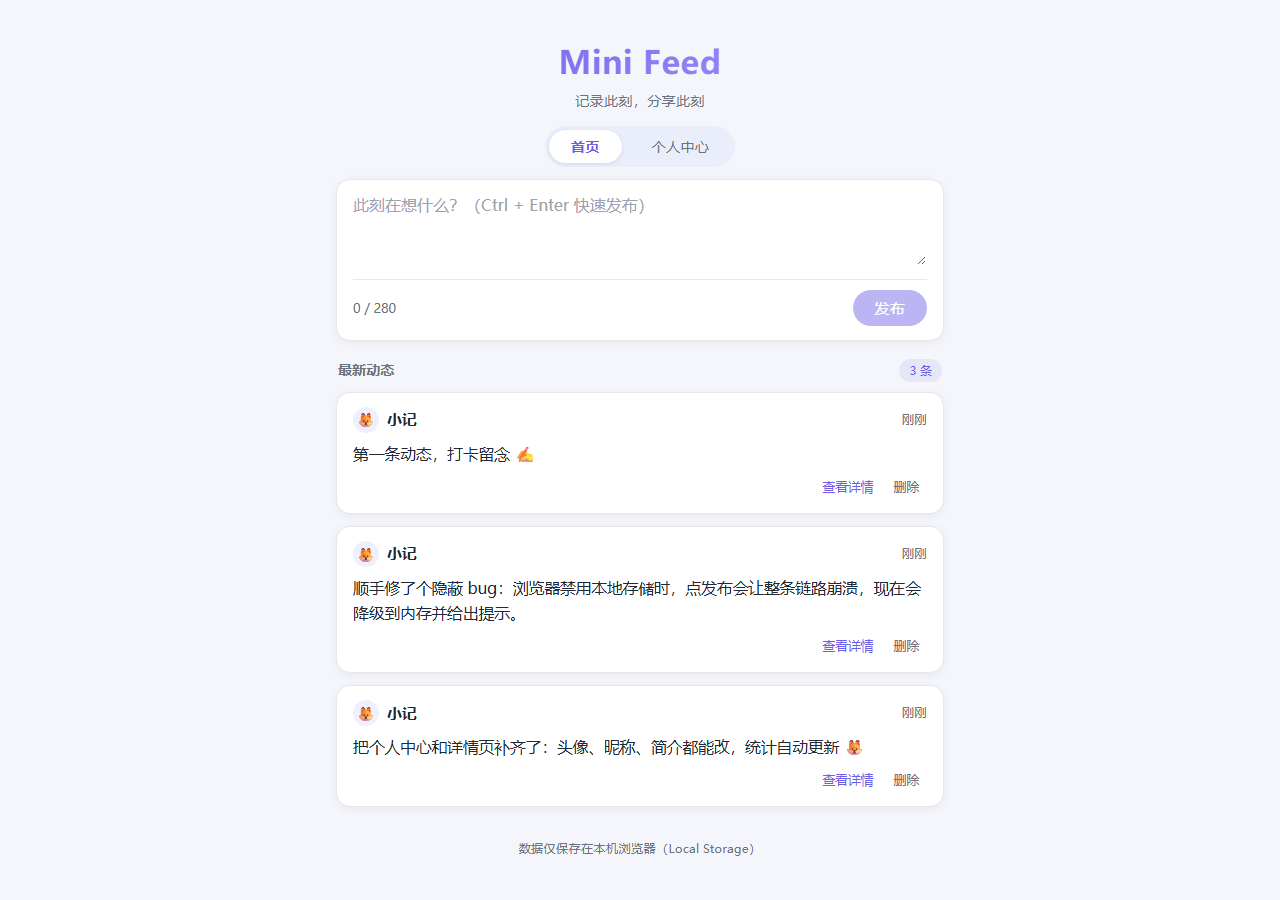
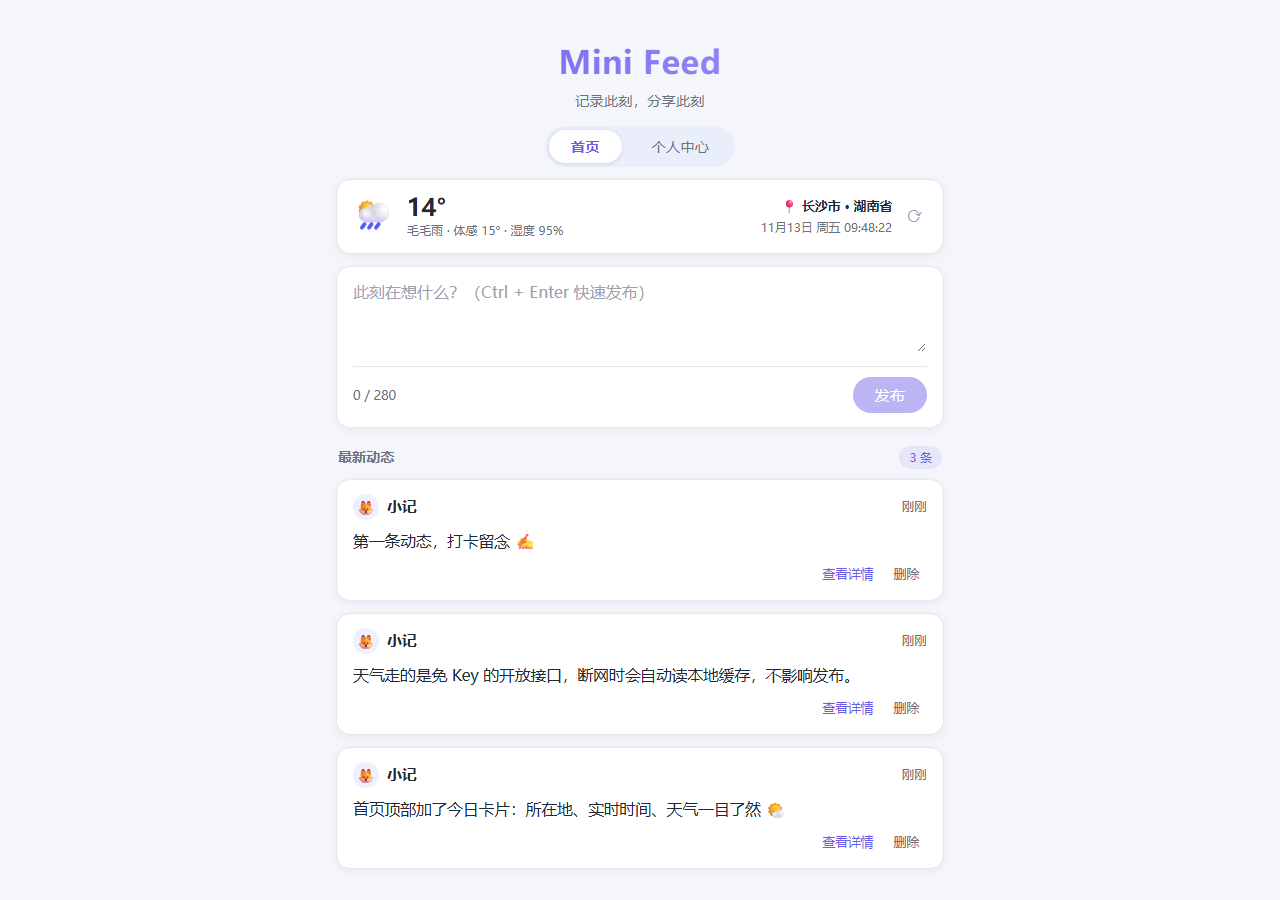
docs: document today card, weather data sources and screenshots

diff --git a/README.md b/README.md
@@ -3,6 +3,7 @@
 一个极简的社交动态（micro-feed）应用：纯 HTML + CSS + JavaScript 实现，零依赖、零构建，数据通过浏览器 **Local Storage** 本地化存储，刷新不丢失。
 
 > 建议通过本地服务器访问（如 `python -m http.server`），部分浏览器直接用 `file://` 打开时会禁用本地存储，详见 [常见问题](#-常见问题)。
+> 首页顶部的天气卡片需要联网获取数据（全部为免 Key 开放接口），断网时自动降级为缓存或占位提示。
 
 ## 📌 项目需求说明
 
@@ -11,12 +12,20 @@
 | 纯 HTML + CSS + JavaScript，不使用任何框架 | ✅ 原生三件套，零依赖 |
 | 发布动态 | ✅ 文本输入 + 发布按钮，支持 Ctrl/Cmd + Enter 快捷键 |
 | 查看动态 | ✅ 时间线倒序展示 + 单条动态详情页（完整正文 / 精确时间 / 字数） |
+| 所在地 / 当前时间 / 天气 | ✅ 首页顶部「今日卡片」：自动 IP 定位 + 实时天气，时间每秒走动 |
 | 本地化数据存储 | ✅ `localStorage` 持久化，关闭浏览器后数据保留 |
 | 删除动态 | ✅ 列表与详情页均可删除（带确认提示） |
 | 个人中心 | ✅ 头像 / 昵称 / 简介编辑、数据统计、我的动态、清空数据 |
 | 最小可用 | ✅ 单页应用，三个文件即可完整运行 |
 
-## ✨ 功能清单（V1.1）
+## ✨ 功能清单（V1.2）
+
+**🌤 今日卡片（首页顶部）**
+- 📍 **所在地**：通过 IP 自动定位，反向地理编码为中文地名（如「长沙市 · 湖南省」），定位结果缓存 12 小时
+- 🕒 **当前时间**：月/日 + 星期 + 时分秒，每秒实时走动
+- 🌡 **天气**：实时温度、天气现象（晴 / 多云 / 雨 / 雪 / 雷阵雨…）、体感温度、湿度，配 WMO 天气代码对应的图标
+- 🔄 **刷新**：右上角一键刷新；天气缓存 20 分钟，过期自动更新
+- 🛟 **容错**：定位主源被限流时自动切换备源；全部接口不可用时读取本地缓存并标注「离线缓存」，完全失败仅显示占位提示，**不影响发布与查看**
 
 **🏠 首页**
 - ✏ **发布**：多行文本输入，280 字上限，实时字数统计，空内容禁止发布，发布后新卡片高亮
@@ -42,6 +51,7 @@
 mini-feed-20261113/
 ├── index.html      # 页面结构（首页 / 个人中心 / 详情 三视图）
 ├── style.css       # 样式（卡片式 UI，浅色主题）
+├── weather.js      # 今日卡片（IP 定位 / 中文地名 / 天气 / 实时时钟）
 ├── app.js          # 逻辑（存储层 / 渲染 / 视图切换 / 业务操作）
 ├── screenshots/    # 运行效果截图
 └── README.md
@@ -86,6 +96,23 @@ A：这是浏览器对 `file://` 协议的本地存储限制导致的（Chrome/E
 V1.1 已修复：存储不可用时会自动降级为内存模式并在页面顶部提示，发布与查看均正常，只是关闭页面后数据不保留。
 如需真正持久化，请用 `python -m http.server 8000` 以 `http://localhost:8000` 访问。
 
+**Q：天气卡片一直显示「天气暂不可用」？**
+A：天气依赖公网接口，需要联网访问。常见原因：断网 / 接口被网络环境拦截 / IP 定位服务临时限流。
+点击卡片右上角 ⟳ 可重试；接口恢复后会自动展示，历史数据会在离线时作为缓存兜底显示。
+
+## 🌐 天气数据来源
+
+天气卡片全部使用**免 Key、支持跨域**的开放接口，无任何后端与密钥配置：
+
+| 用途 | 接口 | 说明 |
+| --- | --- | --- |
+| IP 定位（主） | `ipinfo.io/json` | 返回经纬度，写入 12 小时定位缓存 |
+| IP 定位（备） | `ipwho.is` | 主源限流时自动切换 |
+| 中文地名 | `api.bigdatacloud.net/data/reverse-geocode-client?localityLanguage=zh` | 经纬度 → 中文省市区 |
+| 实时天气 | `api.open-meteo.com/v1/forecast` | 温度、体感温度、湿度、WMO 天气代码 |
+
+定位仅用于确定天气城市，不会上传任何用户输入内容；动态与个人资料始终只存在本机 `localStorage`。
+
 ## 🛣 后续迭代路线（Roadmap）
 
 以下功能与现有架构不冲突，可逐步叠加：
@@ -101,6 +128,7 @@ V1.1 已修复：存储不可用时会自动降级为内存模式并在页面顶
 
 ## 📝 版本记录
 
+- **V1.2（2026-11-13）**：首页顶部新增「今日卡片」——所在地（IP 自动定位 + 中文地名）、当前时间（每秒走动）、实时天气（温度 / 天气现象 / 体感 / 湿度）；多源定位容错与离线缓存降级。
 - **V1.1（2026-11-13）**：修复浏览器禁用本地存储时「发布后无内容」的问题（存储降级 + 提示条）；新增个人中心（资料编辑 / 统计 / 我的动态 / 清空数据）；新增动态详情页；新增动态计数与发布高亮。
 - **V1.0（2026-11-13）**：首个可用版本，支持发布、时间线查看、删除与 `localStorage` 持久化。
 
